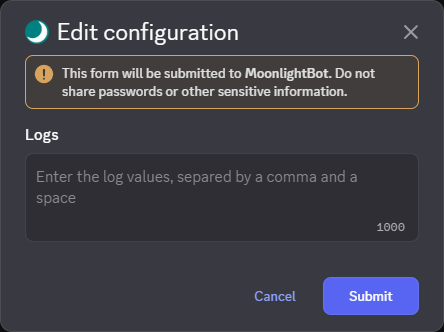
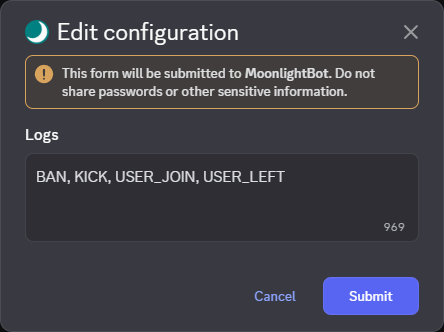
LogEditor image updated, Bot Language section moved up, Evasion Ban additions, sorting of log names, consistency changes

Changed region(s): [[0.0586, 0.512, 0.8198, 0.6325], [0.8491, 0.6627, 0.9077, 0.6928]]

diff --git a/README.md b/README.md
@@ -18,62 +18,6 @@ If this is your first time using MoonlightBot, you'll receive a Direct Message w
 
 We also suggest that you review the [Moderation Tutorial](./start-up/moderation-tutorial.md) and share it with your server moderators and administrators once you've finished configuring MoonlightBot.
 
-## Temporary Roles
-
-The bot can assign and remove specified roles to a user temporarily.
-
-* You can assign or remove a temporary role to a user with [`/temprole`](./role-management-commands/temprole.md)
-* All temporary roles currently active in the server can be listed with [`/list-temproles`](./role-management-commands/list-temproles.md)
-* You can permanently assign or remove any role to a user with [`/role`](./role-management-commands/role.md)
-* Users can assign and remove selected roles to themselves with [`/selfrole`](./role-management-commands/selfrole.md)
-* You also have the option of using [Reaction Roles](./start-up/setting-up-reaction-roles.md) in place of the `/selfrole` command
-* A role assigned to a user can automatically be changed to a temporary role with the [`roles detect-assignment` config option](./management-commands/config.md#roles-detect-assignment)
-* Any role assigned to a user can also be temporarily removed with [`/pause-role`](./role-management-commands/pause-role.md)
-
-## Command Permissions
-
-MoonlightBot uses Discord's built-in permissions system to control who is and is not be able to execute certain commands. Some commands have required permissions set by default, and overrides for specific users and roles can be applied to all commands. To set up permissions properly, please follow the [Permission Tutorial](./start-up/permission-tutorial.md).
-
-## Logging
-
-MoonlightBot offers highly-configurable logging, and can log several kinds of actions to one or more channels. To enable and configure logging for a specific channel, use the command
-```
-/config channels channel:LOG-CHANNEL logs:Open editor
-```
-where `LOG-CHANNEL` is the channel you want logs posted to.
-
-An editor will open where you can enter items or categories from the [list of log names](./advanced/list-of-log-names.md), or an asterisk (`*`) to log everything. The list of items and categories to log should be separated by commas and spaces, like so: `BAN, KICK, USER_JOIN, USER_LEFT`
-
-![Log editor popup](./.gitbook/assets/LogEditor.png)
-
-## Mute Setup
-
-MoonlightBot can mute users both temporarily and permanently. Use the command
-```
-/create-muterole
-```
-to set up a mute role. Specifying the `role` [option](./start-up/options.md) allows you to set up an existing role, or you can leave it out to create a new `@Muted` role.
-
-![Result of /create-muterole command](./.gitbook/assets/MainPageMuterole.png)
-
-You will now be able to use [`/mute`](./moderation-commands/mute.md),  [`/tempmute`](./moderation-commands/tempmute.md), and [`/unmute`](./moderation-commands/unmute.md).
-
-## Evasion Bans
-
-Evasions bans are a fallback moderation feature to ensure muted users cannot abuse improperly configured permissions. If a user with your server's mute role sends a message in a channel that hasn't been allowed, they will be banned. To enable evasion bans, use the command
-```
-/config settings mute-evasion-ban:True
-```
-All channels will now be monitored for new messages sent by muted users. To create an exception to the evasion ban and allow muted users to talk in a channel, use
-```
-/config channels channel:IGNORED-CHANNEL ignore-mute-evasion-ban:True
-```
-where `IGNORED-CHANNEL` is the channel you want ignored.
-
-It is recommended to set up at least one [logging channel](./README.md#logging) with the `BAN` log enabled to see when an evasion ban is triggered.
-
-![Ban log of an evasion ban](./.gitbook/assets/EvasionBanLog.png)
-
 ## Changing the Bot's Language
 
 MoonlightBot supports multiple languages for its commands and responses, and can be set server-wide or per-user. Set the language using
@@ -89,6 +33,72 @@ for user-specific configuration, where `LANG` is the language you want Moonlight
 A list of supported languages is available on the [Discord Developer Portal](https://discord.com/developers/docs/reference#locales); Locale, Language Name, and Native Name are all valid inputs. Alternatively, `auto` can be used for MoonlightBot to detect your preferred language from your Discord settings.
 
 {% hint style="info" %} MoonlightBot is translated entirely by volunteers, so not all languages are complete and may have translation errors. If you speak one of the supported languages proficiently and would like to help us translate MoonlightBot, <a href="./support/volunteering.md">please consider becoming a translator!</a> {% endhint %}
+
+## Temporary Roles
+
+The bot can assign and remove specified roles to a user temporarily.
+
+* You can assign or remove a temporary role to a user with [`/temprole`](./role-management-commands/temprole.md)
+* All temporary roles currently active in the server can be listed with [`/list-temproles`](./role-management-commands/list-temproles.md)
+* You can permanently assign or remove any role to a user with [`/role`](./role-management-commands/role.md)
+* Users can assign and remove selected roles to themselves with [`/selfrole`](./role-management-commands/selfrole.md)
+* You also have the option of using [Reaction Roles](./start-up/setting-up-reaction-roles.md) in place of the `/selfrole` command
+* A role assigned to a user can automatically be changed to a temporary role with the [`roles detect-assignment` config option](./management-commands/config.md#roles-detect-assignment)
+* Any role assigned to a user can also be temporarily removed with [`/pause-role`](./role-management-commands/pause-role.md)
+
+## Command Permissions
+
+MoonlightBot uses Discord's built-in permissions system to control who is and is not be able to execute certain commands. Some commands have required permissions set by default, and overrides for specific members and roles can be applied to any and all commands. To set up permissions properly, please follow the [Permission Tutorial](./start-up/permission-tutorial.md).
+
+## Logging
+
+MoonlightBot offers highly-configurable logging, and can log several kinds of actions to one or more channels. To enable and configure logging for a specific channel, use the command
+```
+/config channels channel:LOG-CHANNEL logs:Open editor
+```
+where `LOG-CHANNEL` is the channel you want logs posted to.
+
+An editor will open where you can enter items or categories from the [list of log names](./advanced/list-of-log-names.md), or an asterisk (`*`) to log everything. The list of items and categories to log should be separated by commas and spaces, like so: `BAN, KICK, USER_JOIN, USER_LEFT`
+
+![Log editor popup](./.gitbook/assets/LogEditor.png)
+
+## Mute Setup
+
+MoonlightBot can mute members both temporarily and permanently. Use the command
+```
+/create-muterole
+```
+to set up a mute role. Specifying the `role` [option](./start-up/options.md) allows you to set up an existing role, or you can leave it out to create a new `@Muted` role.
+
+![Result of /create-muterole command](./.gitbook/assets/MainPageMuterole.png)
+
+You will now be able to use [`/mute`](./moderation-commands/mute.md),  [`/tempmute`](./moderation-commands/tempmute.md), and [`/unmute`](./moderation-commands/unmute.md).
+
+## Evasion Bans
+
+**Evasion Bans required Premium. [Vote for MoonlightBot](./support/upvote-moonlightbot.md) to receive a renewable free trial of premium!**
+Evasions bans are a fallback moderation feature to ensure muted members cannot abuse improperly configured permissions by escalating a mute punishment to a harsher ban. If a user with your server's mute role sends a message in a channel that hasn't been allowed, they will be banned. To enable evasion bans, use the command
+```
+/config settings mute-evasion-ban:True
+```
+All channels will now be monitored for new messages sent by muted members. To create an exception to the evasion ban and allow muted members to talk in a channel, use
+```
+/config channels channel:IGNORED-CHANNEL ignore-mute-evasion-ban:True
+```
+where `IGNORED-CHANNEL` is the channel you want ignored.
+
+It is recommended to set up at least one [logging channel](./README.md#logging) with the `BAN` log enabled to see when an evasion ban is triggered.
+
+![Ban log of an evasion ban](./.gitbook/assets/EvasionBanLog.png)
+
+To troubleshoot why the muted member was able to send a message in the unintended channel, check the following:
+
+* Does the muted role have the `Send messages` permission?
+  * Check in Server Settings > Roles > [Your Mute Role] > Permissions; If so, disable it.
+* Does the muted role have a category-specific override with the `Send messages` permission?
+  * Check by Right Clicking on the Channel's Category > Edit Category > Permissions; If so, remove the role override or disable the permission.
+* Does the muted role have a channel-specific override, or is the channel not synced to the category?
+  * Check by Right Clicking on the Channel > Edit Channel > Permissions; If so, sync the channel to the category, remove the override or disable the permission.
 
 ## Support the Development of MoonlightBot
 

diff --git a/advanced/list-of-log-names.md b/advanced/list-of-log-names.md
@@ -14,8 +14,8 @@ This category is to log actions taken by moderators. Most of them are triggered 
 
 | Name              | Emitted when     |
 | ----------------- | ---------------- |
-| AUDIT_KICK        | A user is kicked without using MoonlightBot |
 | AUDIT_BAN_ADD     | A user is banned without using MoonlightBot |
+| AUDIT_KICK        | A user is kicked without using MoonlightBot |
 | BAN               | A user [gets banned](../moderation-commands/ban.md) |
 | INFRACTION_DELETE | A moderator [deletes an infraction](../moderation-commands/infractions.md)|
 | KICK              | A user [gets kicked](../moderation-commands/kick.md) |
